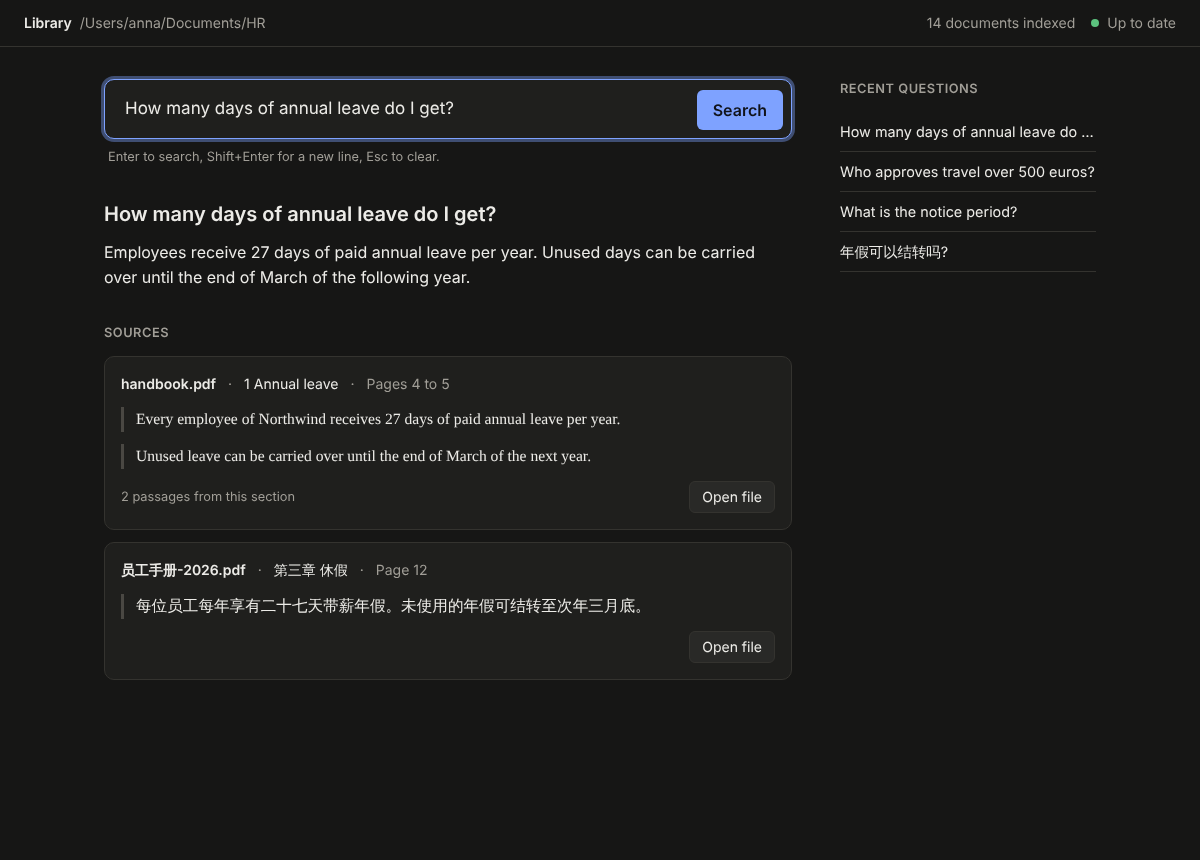
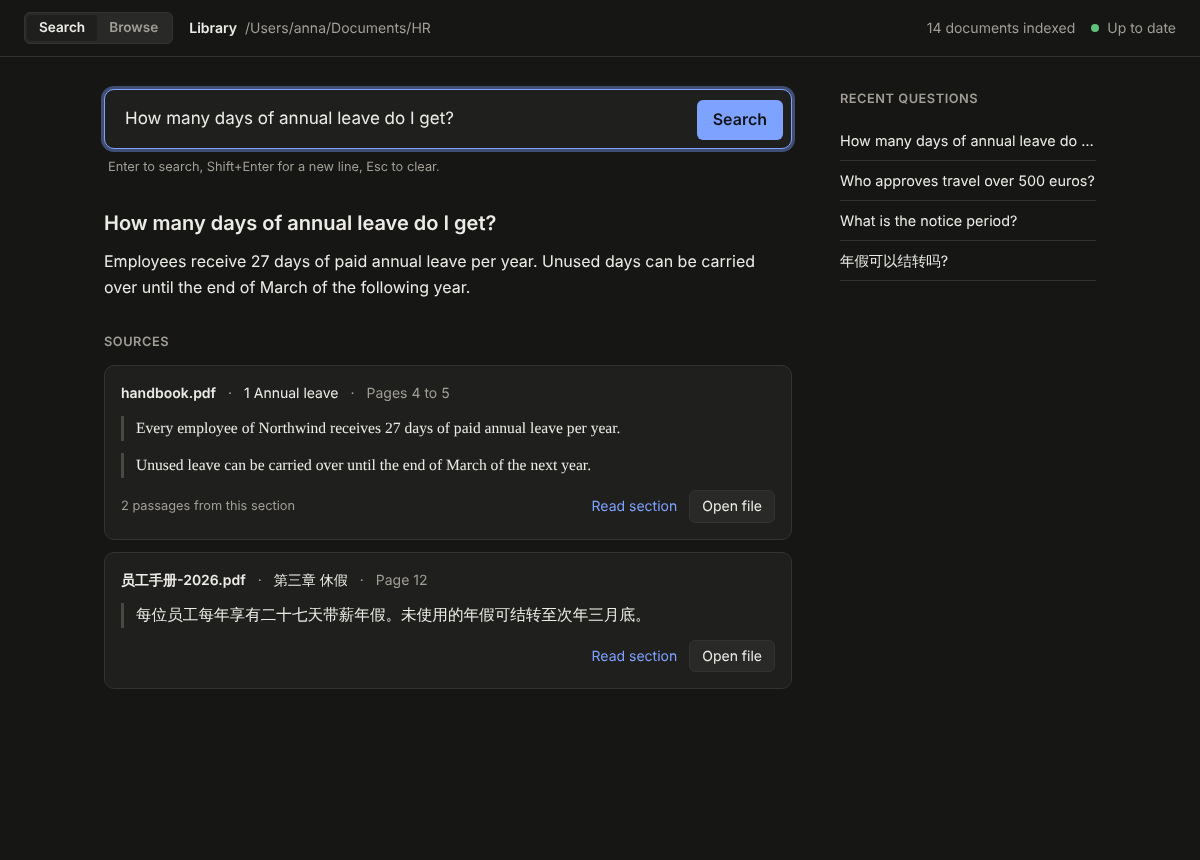
Browse: smoke check for the browse index, screenshots, docs
scripts/smoke-mac.sh checks that <dataDir>/browse lists both test PDFs after
indexing. Heading matches are highlighted in find results. docs/app.md
describes the browse view, the index format, the bridge calls, the
normalization rules and the notices texts. Screenshots of the four browse
pages and the search page with the view switch, light and dark.

Claude-Session: https://claude.ai/code/session_018TGyqBKk1Xb7xFY3sTDArG

diff --git a/src/renderer/browse/browse.css b/src/renderer/browse/browse.css
@@ -521,7 +521,7 @@ h6.doc-heading {
   overflow-wrap: anywhere;
 }
 
-.find-snippet mark {
+.find-hit mark {
   background: var(--accent-soft);
   color: var(--text);
   border-radius: 2px;

diff --git a/docs/app.md b/docs/app.md
@@ -64,6 +64,10 @@ One preload script, src/main/preload.ts, for every window. Windows run with cont
 | `askfiles.watcher.status()`, `.onStatus(cb)` | Watcher status plus `folder`, and `error` when the folder cannot be watched |
 | `askfiles.library.resolveSources(sources)` | FolderWatcher.resolveSources: section title and pages for vector-search results |
 | `askfiles.library.openOriginal(source)` | Reveals the original file in Finder, mapped through index.json from the file URL, the stored document path or the upload file name (src/main/open-original.ts); false when no indexed file matches |
+| `askfiles.browse.documents()` | BrowseIndex.listDocuments: every document with path, title, size, modified time and outline, no section text |
+| `askfiles.browse.document(ref)` | BrowseIndex.getDocument: one document with its sections, by `{ id }` or by a source's `{ url, title }`; null when unknown |
+| `askfiles.browse.headings(key)` | BrowseIndex.headings: headings grouped across documents, most documents first; with a key, that group only, with section text |
+| `askfiles.browse.search(query)` | BrowseIndex.search: keyword hits grouped by document and section, with snippet and match positions |
 | `askfiles.app.info()` | `{ name, version }` for the About page |
 | `askfiles.app.pageReady(info)` | Logs `[main] page ready search connected=true documents=N`; the smoke test waits for it |
 | `window.shellConfig` | `{ baseUrl, apiKey, workspace, folder, resolveSources, openSource }`, read once per page load |
@@ -74,6 +78,25 @@ src/main/bridge/bridge.test.ts runs the preload in the same function wrapper the
 
 Folder, indexed file count, indexing state (Indexing, N left; Up to date; Folder not available) and the number of files on the dead-letter list, with their errors in the tooltip, all from watcher events through the bridge.
 
+## Browse view
+
+The switch at the left of the status bar shows Search or Browse in the same page (src/renderer/search/index.html); both stay in the page, so each keeps its state and nothing reloads. Browse (src/renderer/browse/view.js, also standalone at browse/index.html) has a library page (every document, outline collapsed, sort by name or last change, indexing state), a document page (sections in order with an outline rail, an anchor per section, Open original), a headings page (headings found in two or more documents, optionally all; a heading shows that section from every document side by side) and a find page (keyword search, hits grouped by document and section). Source cards and the section list on the search page have Read section, which opens the cited section on the document page. No model and no server call: everything comes from the browse index.
+
+The browse index (src/main/browse) is one JSON file per document in `<dataDir>/browse/<id>.json`, id the first 16 hex digits of sha256 of the file path:
+
+| Key | Content |
+| --- | --- |
+| `version`, `id`, `path`, `url`, `relPath`, `title` | 1; the id; the file's path, file URL, path in the library folder and file name |
+| `size`, `mtimeMs`, `hash`, `splitKey`, `indexedAt` | From the index.json record; hash and splitKey decide when the sections are read again |
+| `outline` | `{ title, level, sectionIndex, page, children }`, nested by heading level; a heading the splitter folded into the next section (a chapter heading right above its first subsection) gets an entry one level up pointing at that section; text before the first heading gets none |
+| `sections` | `{ index, title, level, lead, heading, pageStart, pageEnd, text }`: index is the sectionIndex of the section documents and search sources; text is the section's sub-chunks joined again, the heading lines the chunker put in front of each taken off; heading is the normalized key, empty for text before the first heading and for the Page N sections of a PDF without headings |
+
+Built from the index.json record and the section documents under STORAGE_DIR/documents, so it shows exactly the split that retrieval embeds, OCR text included. Kept current from the watcher's file events (indexed, unchanged, removed); after every watcher start, sync drops entries for files the watcher no longer has and builds missing ones. Loaded before the watcher starts, so the library shows during a long reconcile.
+
+Heading normalization (src/main/browse/normalize.ts): NFKC, which turns full-width letters, digits and punctuation into half-width; lower case; numbering prefixes removed, repeatedly (1, 1., 1.2.3, 1), 1、, (1), (a), a), I., IV), Chapter 3, Section 2.1, Part II, Article 5, Appendix A, § 4, 第一章, 第12节, 第三条, 第二部分, 一、, (一)); then punctuation and symbols removed and whitespace collapsed. Number parts have at most three digits, so 2026 Budget keeps its year. A heading that is only numbering (第一章 alone) keeps it.
+
+Keyword search (src/main/browse/search.ts): the query is split at whitespace; each term, folded the same way (NFKC, lower case), must occur as a substring of the section title or text. No word boundaries, so Chinese matches inside a sentence. Documents with the most matches come first, sections in document order; at most 200 sections are returned, the total is always counted.
+
 ## OCR in the watcher
 
 A PDF without a text layer is uploaded once to the collector without embedding, its text kept and the collector's copy deleted; the text is cached by file hash in `<dataDir>/ocr-cache`. The splitter then treats it as plain text, so its sections record page 0, stored as no page in index.json. The same path the eval harness takes (scripts/eval/library.ts). Languages: TARGET_OCR_LANG from the preset (eng,chi_sim), written into server/.env by the wizard.
@@ -82,11 +105,11 @@ The language data never downloads: @tesseract.js-data/eng and @tesseract.js-data
 
 ## Smoke test
 
-scripts/smoke-mac.sh starts the packaged app on an emptied data directory (the model cache is kept) with ASKFILES_PRESETS_FILE=test/fixtures/presets-smoke.json (qwen3:0.6b, all-minilm, threshold 0) and ASKFILES_LIBRARY_FOLDER set to a temp folder holding test/fixtures/handbook.pdf and test/fixtures/scanned.pdf. It waits for the first run to finish, for the search page's ready line in main.log, then checks the library, the index and the OCR result and asks one question with the stored key.
+scripts/smoke-mac.sh starts the packaged app on an emptied data directory (the model cache is kept) with ASKFILES_PRESETS_FILE=test/fixtures/presets-smoke.json (qwen3:0.6b, all-minilm, threshold 0) and ASKFILES_LIBRARY_FOLDER set to a temp folder holding test/fixtures/handbook.pdf and test/fixtures/scanned.pdf. It waits for the first run to finish, for the search page's ready line in main.log, then checks the library, the index, the browse index (both PDFs listed in `<dataDir>/browse`) and the OCR result and asks one question with the stored key.
 
 ## Third-party notices
 
-THIRD-PARTY-NOTICES at the repository root lists every bundled package with its license and each license text once; the About page shows it. Regenerate after dependency changes, ideally on the Mac after scripts/build.sh so the darwin platform packages are listed:
+THIRD-PARTY-NOTICES at the repository root lists every bundled package with its license and each license text once; the About page shows it. A package that ships no license file gets the standard text of the license its package.json names, from scripts/license-texts (SPDX license-list-data v3.27.0: MIT, Apache-2.0, BSD-2-Clause, BSD-3-Clause, ISC, LGPL-3.0 with the GPL-3.0 text it builds on, MPL-2.0, CC0-1.0); scripts/third-party-notices.test.mjs fails when a listed package that names a license has no text in the file. Packages whose package.json names no license at all (UNKNOWN) are listed by name. Regenerate after dependency changes, ideally on the Mac after scripts/build.sh so the darwin platform packages are listed:
 
 ```
 node scripts/third-party-notices.mjs
